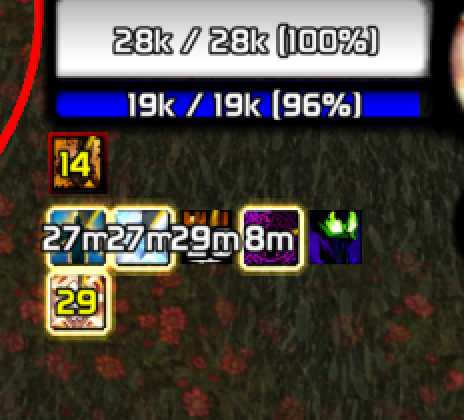
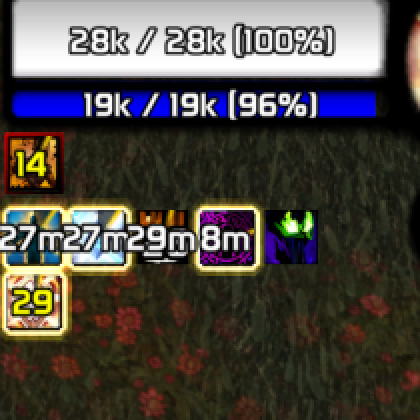
docs: put the badges first, drop the diagram and crop the screenshot
The badges and a one-line description lead, then the screenshot with a caption. Limitations come before install, and the diagram, which repeated the list below it, is gone.

diff --git a/README.md b/README.md
@@ -1,13 +1,14 @@
 # DispelGlow
 
-An addon for the **World of Warcraft 3.3.5a** client (Wrath of the Lich King): the Magic buffs on your enemy target and focus glow when your character can remove them, so you see at a glance what to purge or dispel.
-
-<p align="center">
-  <img src="docs/images/target-frame-glow.png" width="464" alt="An enemy target frame in the game. Below the health and mana bars, the buffs that are Magic effects have a bright border around their icons; a buff that is not Magic has none.">
-</p>
-
 [![CI](https://github.com/zxxdev/DispelGlow/actions/workflows/ci.yml/badge.svg)](https://github.com/zxxdev/DispelGlow/actions/workflows/ci.yml)
 [![License: MIT](https://img.shields.io/badge/license-MIT-blue.svg)](LICENSE)
+
+Makes the Magic buffs on your enemy target and focus glow when you can purge or dispel them. For the **World of Warcraft 3.3.5a** client (Wrath of the Lich King).
+
+<p align="center">
+  <img src="docs/images/target-frame-glow.png" width="420" alt="An enemy target frame in the game. Below the health and mana bars, the buffs that are Magic effects have a bright border around their icons; a buff that is not Magic has none.">
+  <br><sub>Magic buffs your character can remove glow; the others do not.</sub>
+</p>
 
 ## Why it exists
 
@@ -31,6 +32,13 @@ The glow appears only if your character has one of these spells:
 - A character too low to have the spell sees nothing until it is learned. After a respec or a dual spec swap, it looks again.
 - Spell names are read from the game, so it works with any client language.
 
+## Limitations
+
+- Only the target and focus frames of the game's own interface. Party, arena and other unit frame addons are not covered.
+- It shows what *can* be removed, not what is worth removing.
+- It does not check range, cooldown, mana or rage, or (for Shield Slam) whether a shield is equipped.
+- Tranquilizing Shot also removes Enrage effects; only Magic buffs glow.
+
 ## Install
 
 1. Download this repository (**Code → Download ZIP**) and unzip it.
@@ -38,11 +46,11 @@ The glow appears only if your character has one of these spells:
 3. Copy `DispelGlow.toc` and `DispelGlow.lua` into it. Nothing else is needed.
 4. Start the game and check that **DispelGlow** is enabled in the AddOns list on the character screen.
 
-A ready-to-copy zip will come with the first release.
+A ready-to-copy zip will be attached to the v1.0.0 release.
 
 ## Usage
 
-There is nothing to set up. Type `/dglow` (or `/dispelglow`) to see whether the glow is on:
+There is nothing to set up. Type `/dglow` (or `/dispelglow`) to see whether the glow is on. It answers with one of:
 
 ```text
 DispelGlow: on, with Shield Slam.
@@ -53,25 +61,10 @@ DispelGlow: nothing to add, Spellsteal already has the game's own glow.
 
 ## How it works
 
-```mermaid
-flowchart LR
-    login[Log in] --> can{Can this class<br/>remove Magic?}
-    can -- no --> idle[Nothing hooked,<br/>no events]
-    can -- yes --> book[Find the spell<br/>in the spell book]
-    book --> redraw[Blizzard redraws the<br/>target or focus buffs]
-    redraw --> check{Enemy, and<br/>spell known?}
-    check -- yes --> glow[Show the glow on<br/>every Magic buff]
-```
-
 - **No game function is replaced.** The addon runs after Blizzard's `TargetFrame_UpdateAuras` (with `hooksecurefunc`) and shows the glow texture that the frame already has for each buff. Blizzard hides it again on its next redraw, so nothing is left behind.
 - **The spell is found by name in the spell book.** The names come from the spell IDs of the first rank (`GetSpellInfo`), so every rank and every language matches. For a warlock it looks in the pet's spell book, and follows the pet when it is summoned or dismissed.
 - **Light on the game.** A class that cannot remove Magic hooks nothing and listens to nothing. The others stop looking once the spell is found, until the talents change. Each glow texture is looked up once and kept, so redrawing the buffs creates no new strings or tables. Nothing global except the slash command.
-
-## Quality
-
-- **Tests** ([busted](https://lunarmodules.github.io/busted/)): the game is played by plain Lua tables in [`spec/dispelglow_spec.lua`](spec/dispelglow_spec.lua). They cover each class, the warlock's pet, enemies against friends, Magic against other buffs, respecs, and that classes without a spell hook nothing.
-- **Lint** ([luacheck](https://github.com/lunarmodules/luacheck)): with the list of game functions the addon reads, so a misspelt or accidental global fails the build.
-- Both run in [CI](.github/workflows/ci.yml) on every pull request. They test the addon's logic against a fake game, not the game itself; it has been checked in the game with a warrior.
+- **Privacy.** It saves nothing (no saved variables) and reads only the spell book, the pet's spell book and the buffs of your target and focus.
 
 ## Development
 
@@ -82,6 +75,8 @@ luacheck .   # lint
 busted       # tests
 ```
 
+Files:
+
 ```text
 DispelGlow.toc          what the game loads
 DispelGlow.lua          the whole addon
@@ -89,16 +84,11 @@ spec/                   tests
 .luacheckrc             lint settings and the game API the addon uses
 ```
 
-## Privacy
+### Quality
 
-DispelGlow saves nothing (it has no saved variables) and reads only the spell book, the pet's spell book and the buffs of your target and focus.
-
-## Limitations
-
-- Only the default target and focus frames. Party, arena and other unit frame addons are not covered.
-- It shows what *can* be removed, not what is worth removing.
-- It does not check range, cooldown, mana or rage, or (for Shield Slam) whether a shield is equipped.
-- Tranquilizing Shot also removes Enrage effects; only Magic buffs glow.
+- **Tests** (busted): the game is played by plain Lua tables in [`spec/dispelglow_spec.lua`](spec/dispelglow_spec.lua). They cover each class, the warlock's pet, enemies against friends, Magic against other buffs, respecs, and that classes without a spell hook nothing.
+- **Lint** (luacheck): with the list of game functions the addon reads, so a misspelt or accidental global fails the build.
+- Both run in [CI](.github/workflows/ci.yml) on every pull request. They test the addon's logic against a fake game, not the game itself; it has been checked in the game with a warrior.
 
 ## History
 

diff --git a/CHANGELOG.md b/CHANGELOG.md
@@ -7,7 +7,7 @@
 - Glows only when your character has a spell that removes Magic from an enemy: Purge (shaman), Dispel Magic and Mass Dispel (priest), Tranquilizing Shot (hunter), Shield Slam (warrior), and Devour Magic while the Felhunter is out (warlock). Before, every class saw the glow.
 - A mage is left to the game's own Spellsteal glow, which already marks exactly the buffs that can be stolen.
 - Looks for the spell again after a respec or a dual spec swap.
-- Draws the glow after Blizzard redraws the target and focus buffs, instead of replacing the game's `UnitAura` and `UnitBuff`. Other addons and protected parts of the interface are no longer affected.
+- Draws the glow after Blizzard redraws the target and focus buffs, instead of replacing the game's `UnitAura` and `UnitBuff`, so other addons that call them get the game's own answers again.
 - Classes that cannot remove Magic hook nothing and listen to no events.
 
 ### Added
